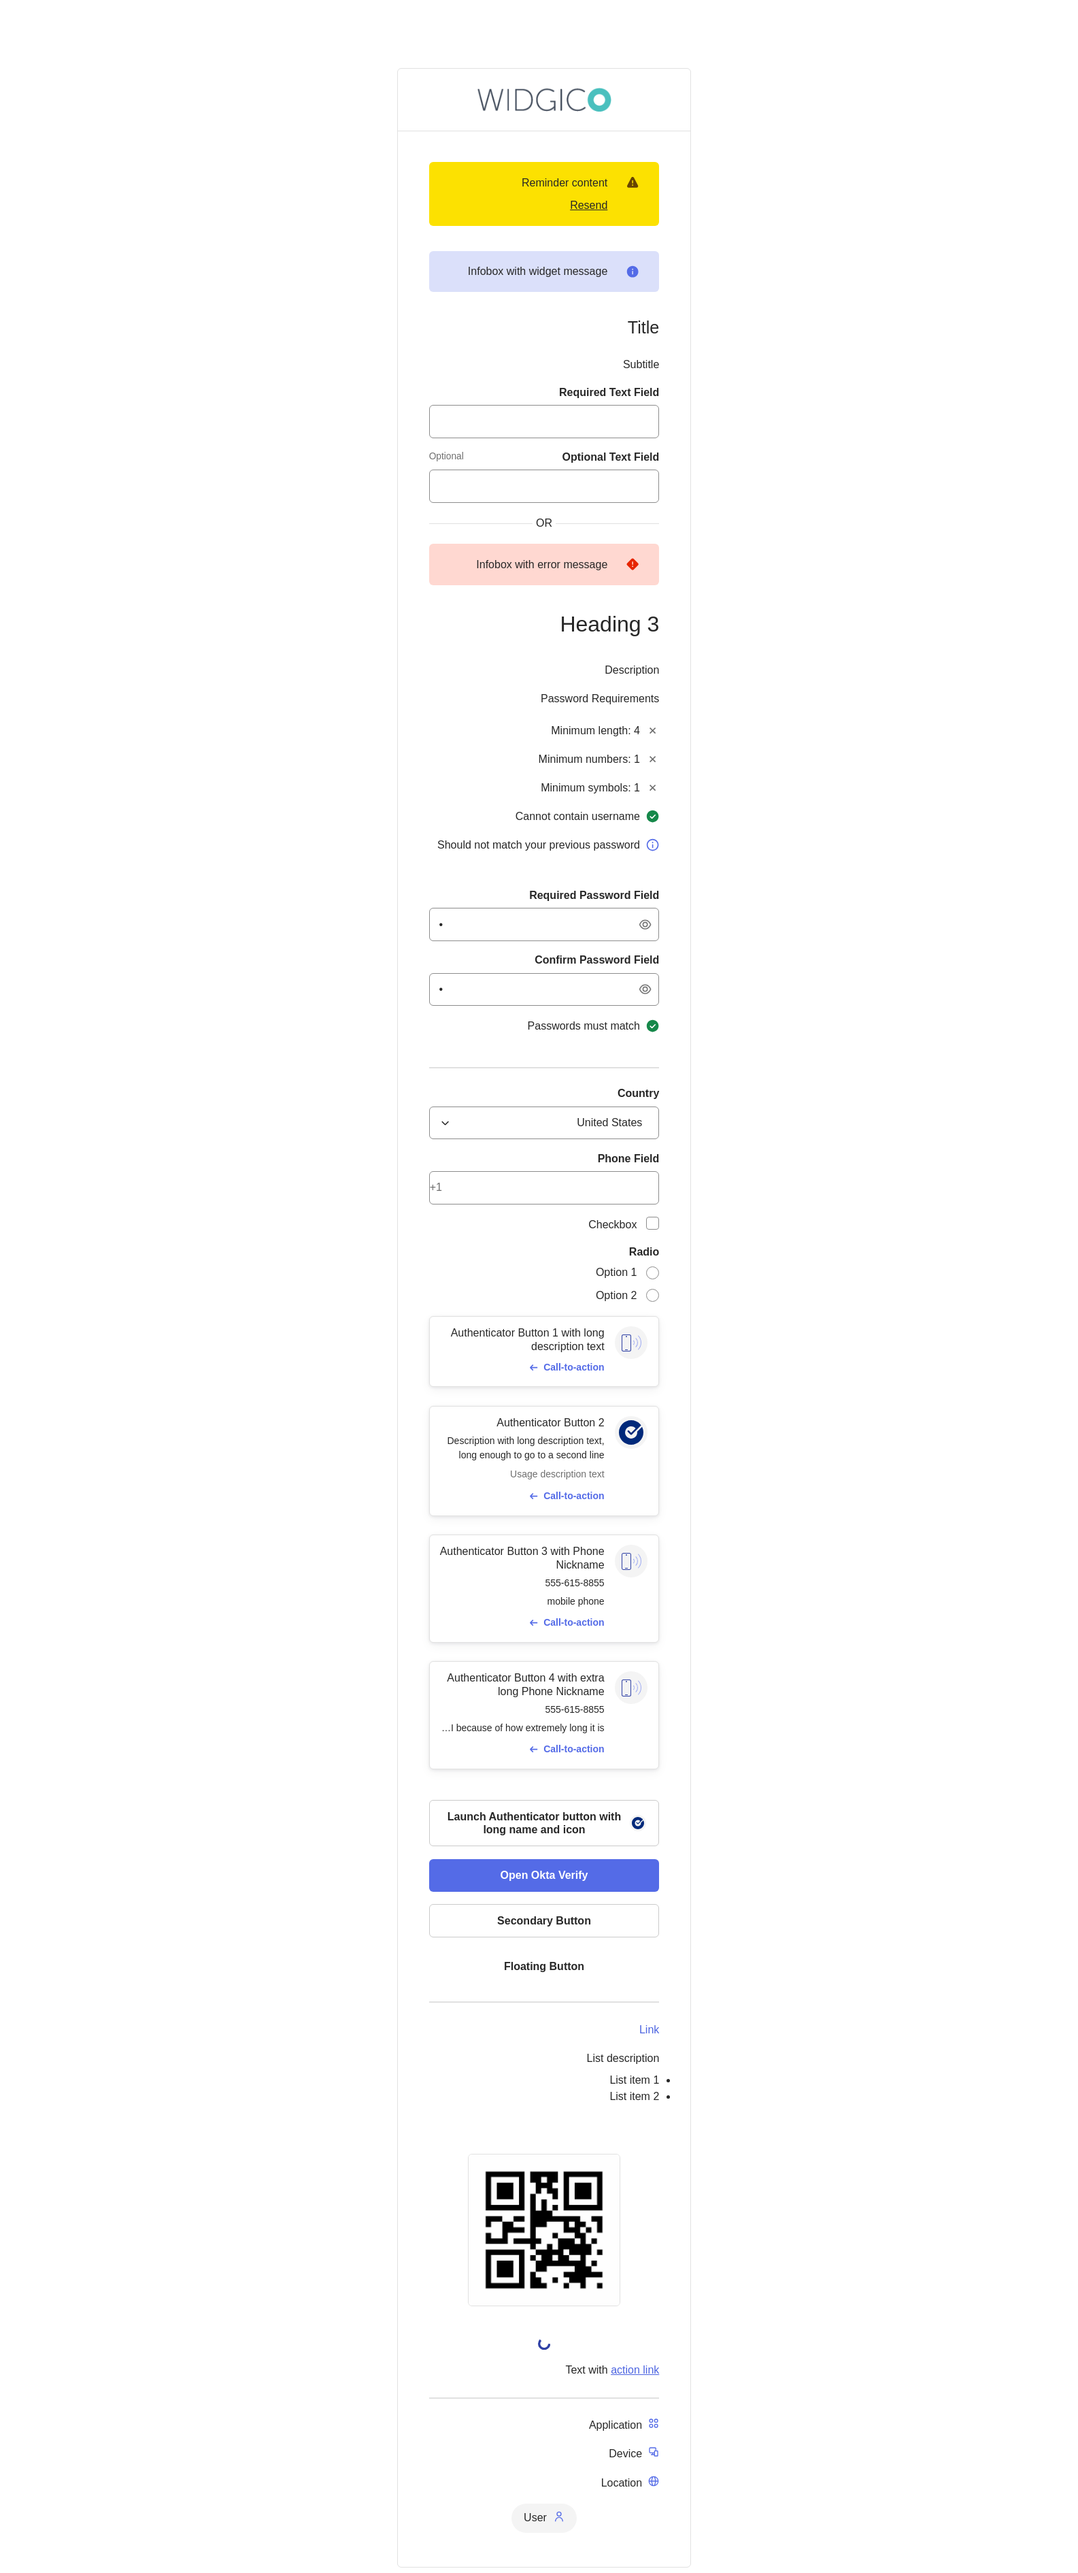
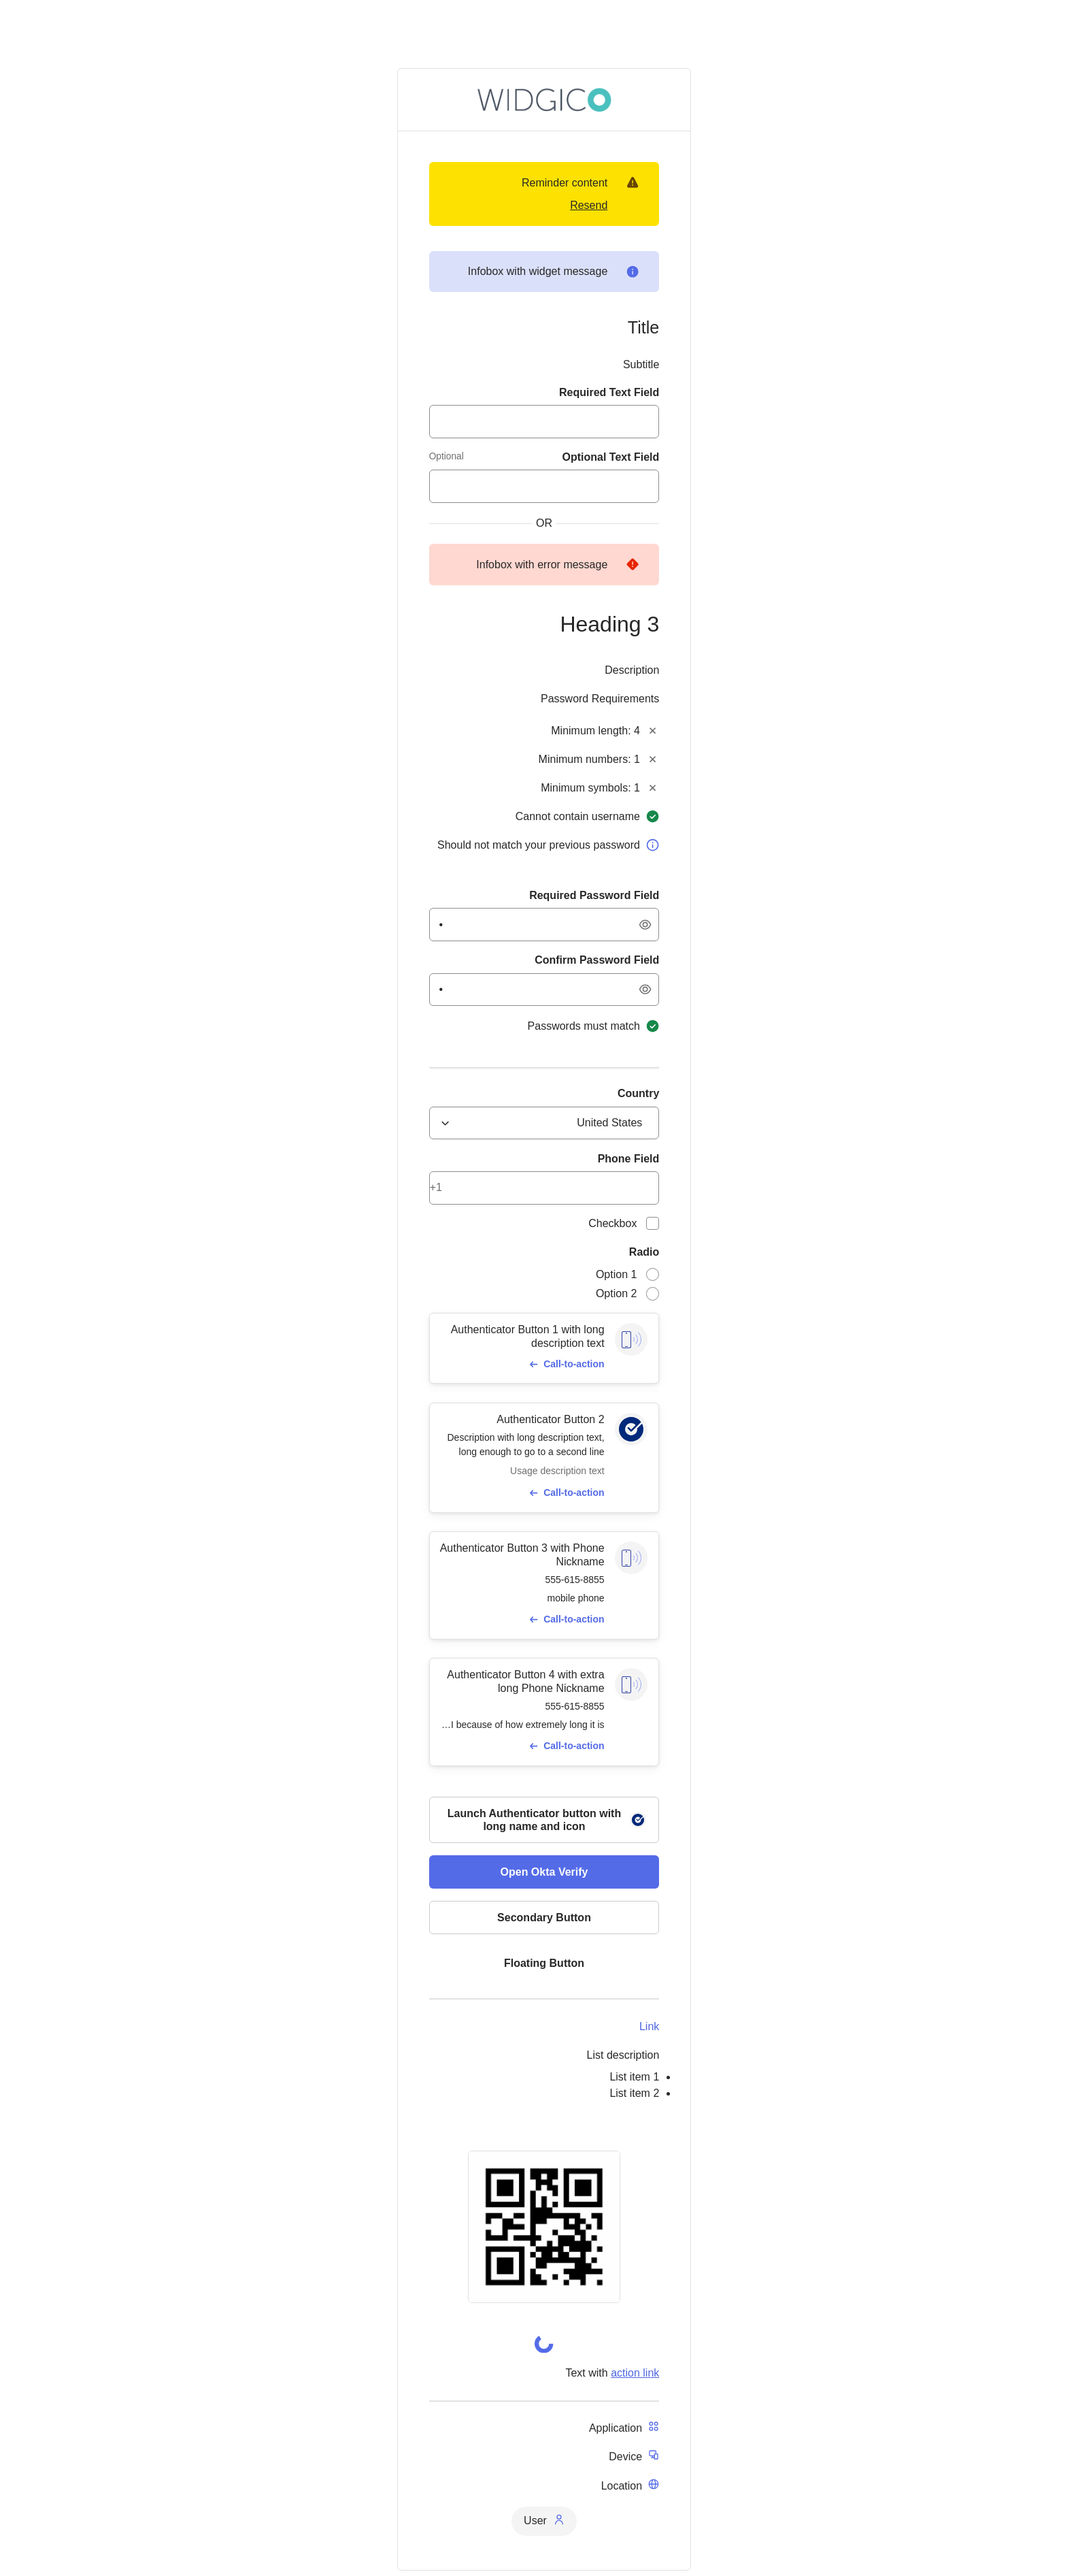
Support BYOL and sync languageCode with OD Provider (#3492)
* Support BYOL and sync languageCode with OD Provider

diff --git a/src/v3/src/components/Widget/index.tsx b/src/v3/src/components/Widget/index.tsx
@@ -15,7 +15,7 @@
 import './style.css';
 
 import { ScopedCssBaseline } from '@mui/material';
-import { OdysseyProvider } from '@okta/odyssey-react-mui';
+import { OdysseyProvider, TranslationOverrides } from '@okta/odyssey-react-mui';
 import { MuiThemeProvider } from '@okta/odyssey-react-mui-legacy';
 import {
   AuthApiError,
@@ -65,6 +65,7 @@ import {
   extractPageTitle,
   getLanguageCode,
   getLanguageDirection,
+  getOdysseyTranslationOverrides,
   isAndroidOrIOS,
   isAuthClientSet,
   isConfigRegisterFlow,
@@ -134,8 +135,11 @@ export const Widget: FunctionComponent<WidgetProps> = (widgetProps) => {
   const languageCode = getLanguageCode(widgetProps);
   const languageDirection = getLanguageDirection(languageCode);
   const { stateHandle, unsetStateHandle } = useStateHandle(widgetProps);
+  const [odyTranslationOverrides, setOdyTranslationOverrides] = useState<
+  TranslationOverrides<string> | undefined>();
+  // Odyssey language codes use '_' instead of '-' (e.g. zh-CN -> zh_CN)
+  const odyLanguageCode: string = languageCode.replace('-', '_');
 
-  // merge themes
   const { theme, tokens } = useMemo(() => {
     const { themeOverride, tokensOverride } = createThemeAndTokens(
       brandColors,
@@ -158,6 +162,9 @@ export const Widget: FunctionComponent<WidgetProps> = (widgetProps) => {
   const initLanguage = useCallback(async () => {
     if (!Bundles.isLoaded(languageCode)) {
       await loadLanguage(widgetProps);
+      setOdyTranslationOverrides({
+        [odyLanguageCode]: getOdysseyTranslationOverrides(),
+      });
     }
     // eslint-disable-next-line react-hooks/exhaustive-deps
   }, []);
@@ -506,6 +513,8 @@ export const Widget: FunctionComponent<WidgetProps> = (widgetProps) => {
         <OdysseyProvider
           themeOverride={theme}
           designTokensOverride={tokens}
+          languageCode={odyLanguageCode}
+          translationOverrides={odyTranslationOverrides}
           nonce={cspNonce}
           stylisPlugins={stylisPlugins}
         >

diff --git a/src/v3/src/util/languageUtils.ts b/src/v3/src/util/languageUtils.ts
@@ -10,6 +10,8 @@
  * See the License for the specific language governing permissions and limitations under the License.
  */
 
+import { OdysseyI18nResourceKeys, odysseyI18nResourceKeysList } from '@okta/odyssey-react-mui';
+
 import Bundles from '../../../util/Bundles';
 import { WidgetProps } from '../types';
 import { getLanguageCode, getSupportedLanguages } from './settingsUtils';
@@ -24,3 +26,15 @@ export const loadLanguage = async (widgetProps: WidgetProps): Promise<void> => {
     rewrite: rewrite ?? ((val) => val),
   }, supportedLanguages);
 };
+
+export const getOdysseyTranslationOverrides = (): Partial<OdysseyI18nResourceKeys> => (
+  odysseyI18nResourceKeysList
+    .reduce((overrides: Partial<OdysseyI18nResourceKeys>,
+      key: typeof odysseyI18nResourceKeysList[number]) => {
+      const updatedOverrides = { ...overrides };
+      if (Bundles.login && Object.prototype.hasOwnProperty.call(Bundles.login, key)) {
+        updatedOverrides[key] = (Bundles.login as Partial<OdysseyI18nResourceKeys>)[key];
+      }
+      return updatedOverrides;
+    }, {})
+);

diff --git a/src/v3/test/integration/enduser-consent-without-logo.test.tsx b/src/v3/test/integration/enduser-consent-without-logo.test.tsx
@@ -14,7 +14,7 @@ import { setup } from './util';
 
 import enduserConsentResponse from '../../../../playground/mocks/data/idp/idx/consent-enduser.json';
 
-describe('enduser-consent-without-lgoo', () => {
+describe('enduser-consent-without-logo', () => {
   it('should render form', async () => {
     const enduserConsentResponseWithoutLogo = {
       ...enduserConsentResponse,
